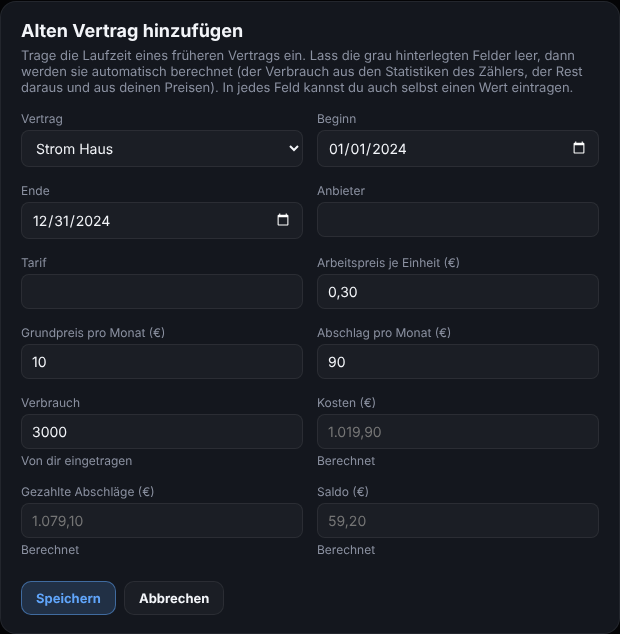
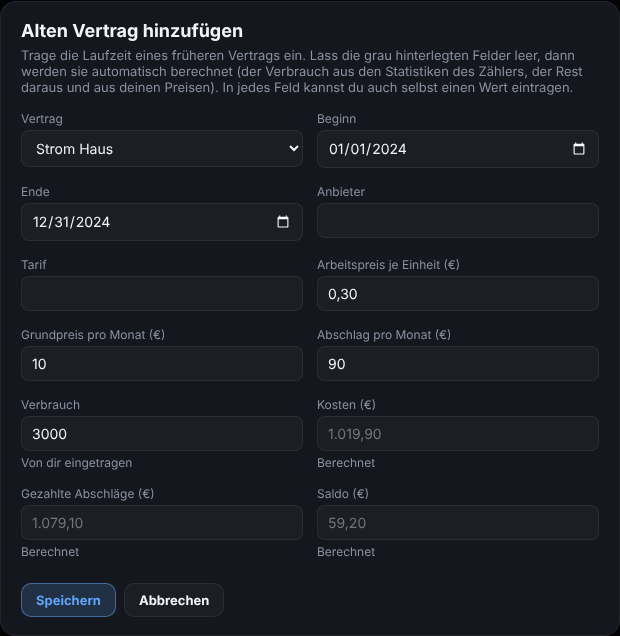
Panel: date fields keep to the width of the dialog on iOS (1.28.0-beta.8) (#60)
Claude-Session: https://claude.ai/code/session_011wNPKqgRVqpMfNb2Np7XaH

diff --git a/custom_components/tariffy/frontend/tariffy-panel.js b/custom_components/tariffy/frontend/tariffy-panel.js
@@ -422,11 +422,14 @@ section.card .foot { padding-top: 12px; }
 .dialog h2 { margin: 0 0 6px; font-size: 18px; }
 .dialog .hint { color: var(--muted); font-size: 13px; margin: 0 0 8px; }
 .fields { display: grid; grid-template-columns: 1fr 1fr; gap: 0 14px; }
-.fld { display: block; margin: 8px 0; }
+.fld { display: block; margin: 8px 0; min-width: 0; }
 .fld .lbl { display: block; font-size: 12px; color: var(--muted); margin-bottom: 4px; }
 .fld input, .fld select { width: 100%; box-sizing: border-box; font: inherit; font-size: 14px; color: var(--text); background: var(--tile); border: 1px solid var(--tile-line); border-radius: 8px; padding: 8px 10px; color-scheme: dark; }
 /* the list of a drop-down is drawn by the browser: some ignore color-scheme, so it gets its colours explicitly
    (otherwise light text on a white list) */
+/* iOS draws a date field with its own intrinsic width and no height while empty: it stuck out of the dialog */
+.fld input[type="date"] { appearance: none; -webkit-appearance: none; min-width: 0; max-width: 100%; min-height: 38px; text-align: left; }
+.fld input[type="date"]::-webkit-date-and-time-value { text-align: left; min-height: 1.2em; }
 .fld select option, .fld select optgroup { background: #1a1d25; color: var(--text); }
 .fld input:focus-visible, .fld select:focus-visible { outline: 2px solid var(--blue); outline-offset: 1px; }
 .confirm-name { width: 100%; font: inherit; font-size: 14px; color: var(--text); background: var(--tile); border: 1px solid var(--tile-line); border-radius: 8px; padding: 8px 10px; color-scheme: dark; }

diff --git a/custom_components/tariffy/CHANGELOG.md b/custom_components/tariffy/CHANGELOG.md
@@ -7,6 +7,14 @@ das Projekt folgt [Semantic Versioning](https://semver.org/lang/de/).
 
 ## [Unreleased]
 
+## [1.28.0-beta.8] - 2026-11-12
+
+Achte Beta zum Testen der Vertragshistorie und der Sicherung. Bitte melde Probleme mit dem Bug-Formular und nenne diese genaue Version.
+
+### Fixed
+
+- **Datumsfelder in den Dialogen des Panels ragten auf dem iPhone über den Dialog hinaus** (und waren leer zu niedrig gezeichnet), zum Beispiel "Vertragsbeginn" und "Vertragsende" beim Bearbeiten eines Vertrags. Die Felder bleiben jetzt in der Breite ihrer Spalte.
+
 ## [1.28.0-beta.7] - 2026-11-12
 
 Siebte Beta zum Testen der Vertragshistorie und der Sicherung. Bitte melde Probleme mit dem Bug-Formular und nenne diese genaue Version.

diff --git a/CHANGELOG.md b/CHANGELOG.md
@@ -7,6 +7,14 @@ and this project adheres to [Semantic Versioning](https://semver.org/spec/v2.0.0
 
 ## [Unreleased]
 
+## [1.28.0-beta.8] - 2026-11-12
+
+Eighth beta for testing the contract history and the backup. Please report problems with the bug report form and mention this exact version.
+
+### Fixed
+
+- **Date fields in the panel's dialogs stuck out of the dialog on an iPhone** (and were drawn too low while empty), for example "Contract start" and "Contract end" when editing a contract. The fields now keep to the width of their column.
+
 ## [1.28.0-beta.7] - 2026-11-12
 
 Seventh beta for testing the contract history and the backup. Please report problems with the bug report form and mention this exact version.
